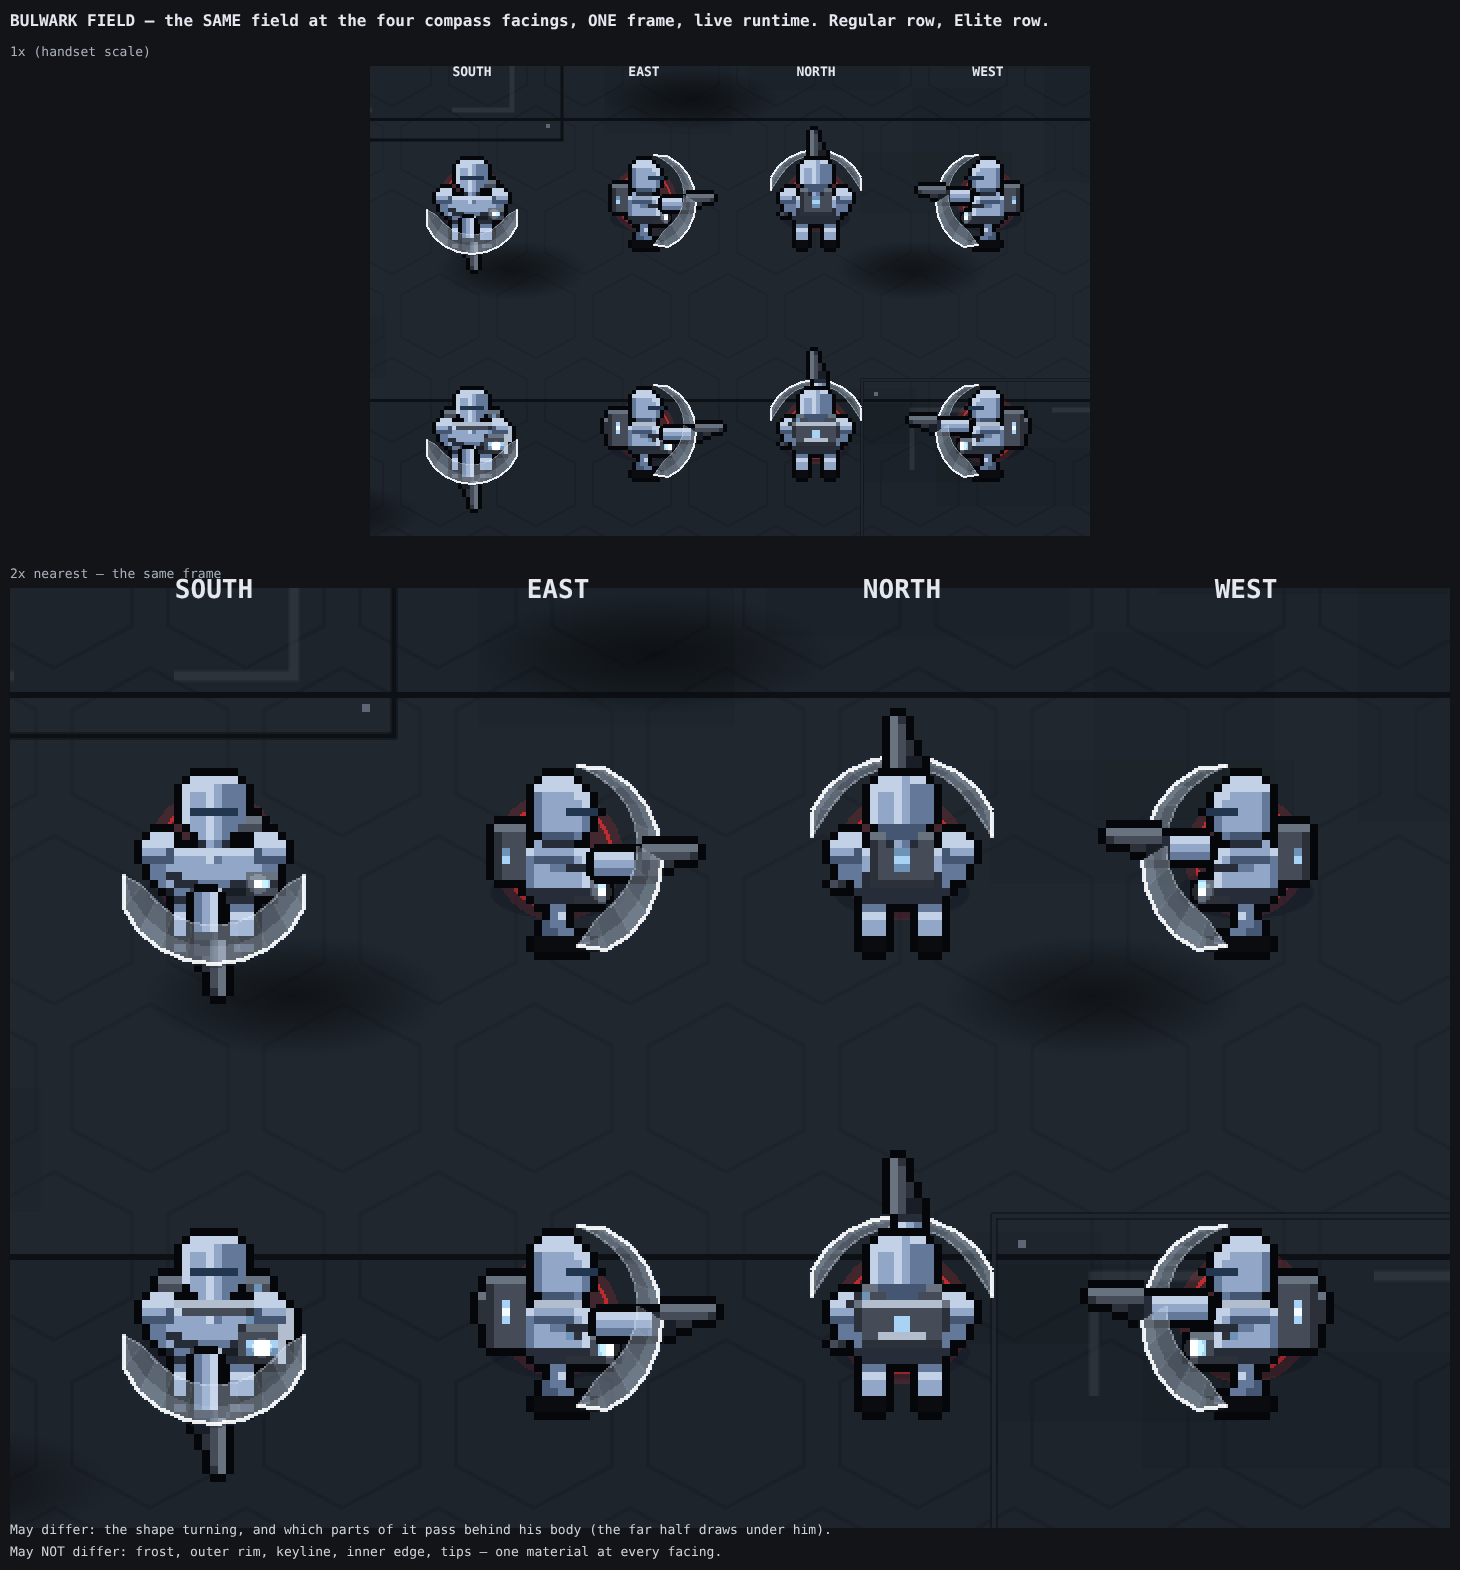
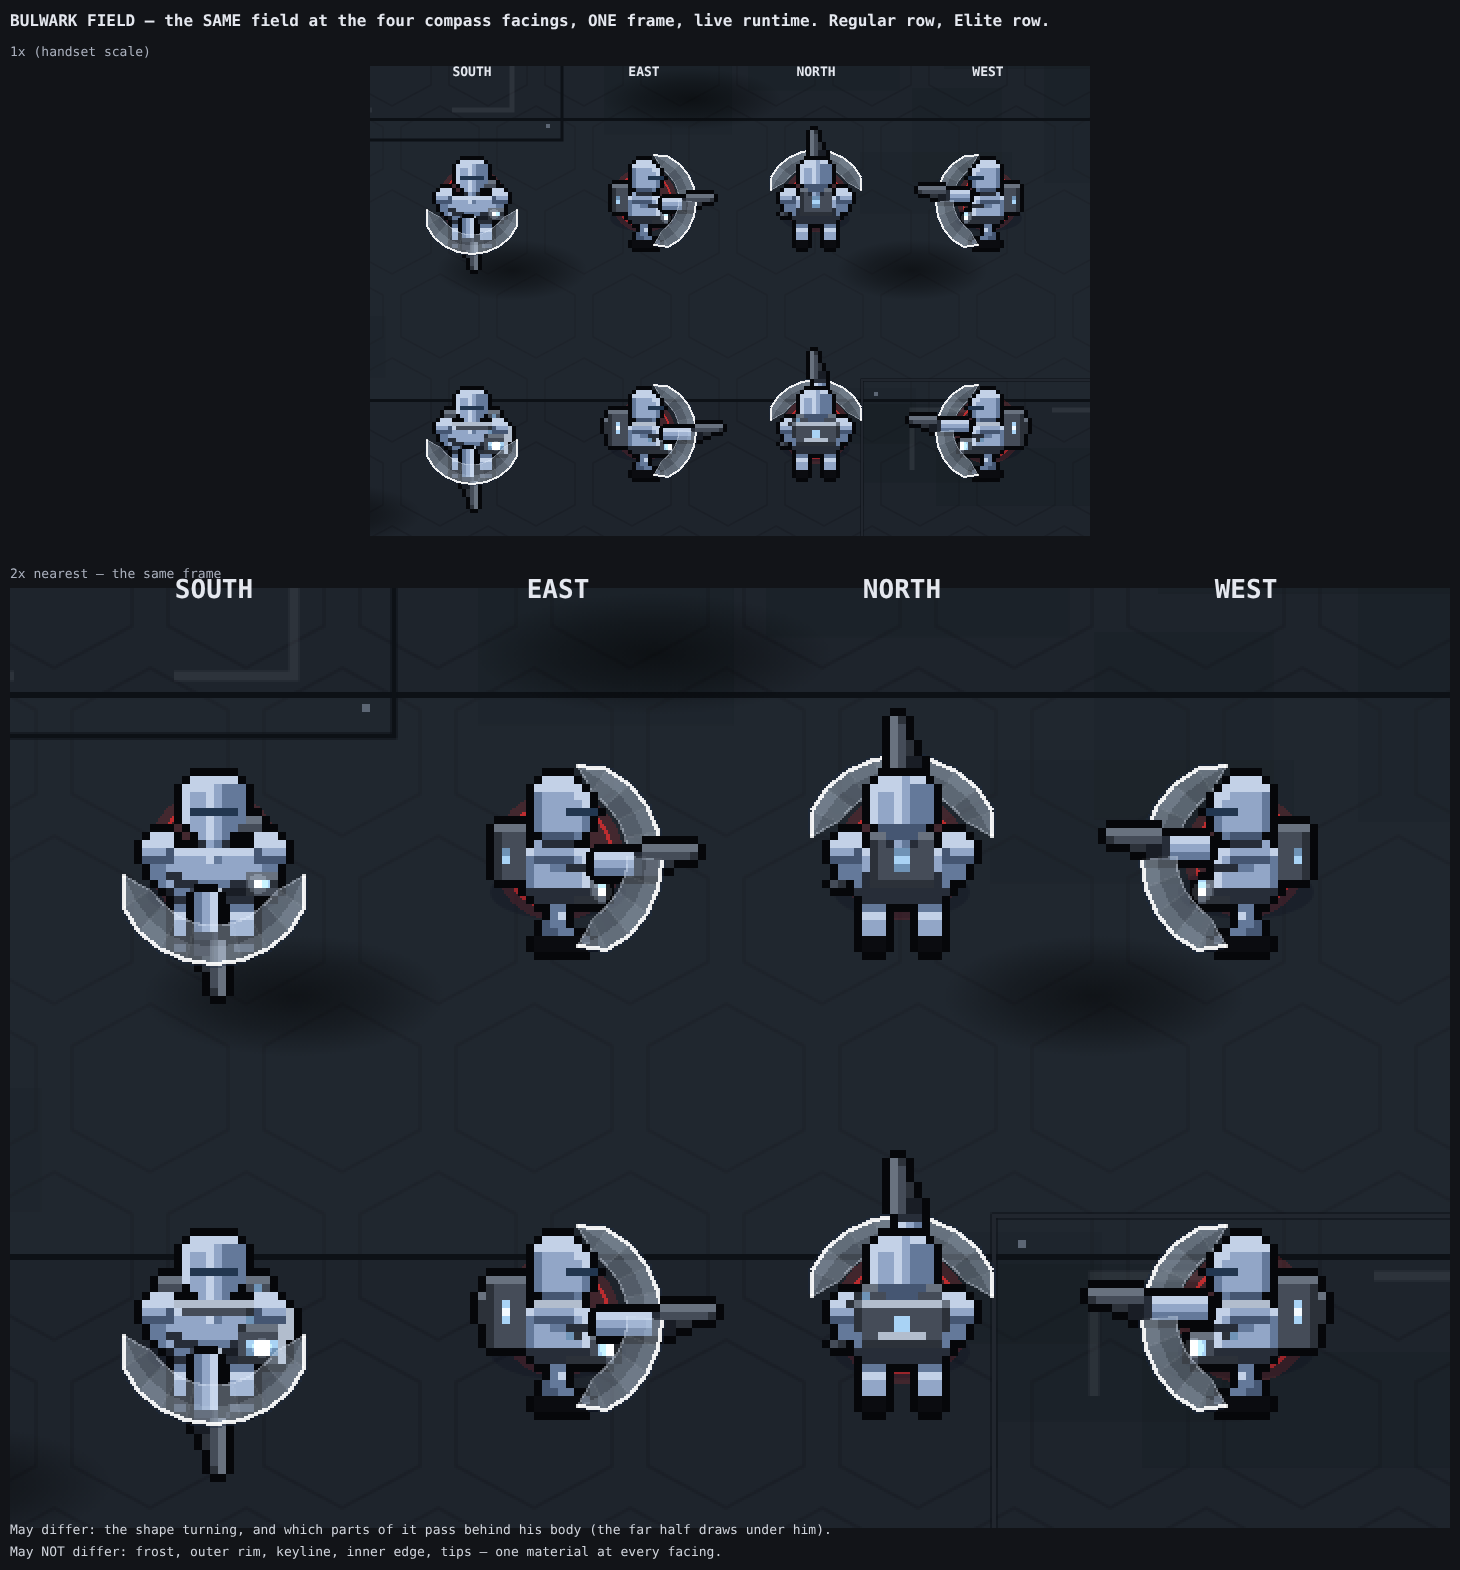
wip(roster): Bulwark orientation — before/after field cost in the notes; idle legend no longer claims a softer far half
Claude-Session: https://claude.ai/code/session_01H3DRRU6hP83RwXnBDPTtdN

diff --git a/docs/evidence/roster-bulwark/bulwark-v1-notes.md b/docs/evidence/roster-bulwark/bulwark-v1-notes.md
@@ -343,6 +343,21 @@ The field redraws every frame, so its CPU cost was measured on this container
 A phone is slower. This is the number to watch if VANGUARD frame time is ever a
 complaint.
 
+**Orientation pass, before / after** (`node tests/shot-bulwark-orient.mjs perf`;
+one instrument for both builds: six fields at six facings, median of 5 × 240 frames,
+the old build served from a `d9e2d6d` worktree; two runs):
+
+| ms per field per frame | OLD `d9e2d6d` | NEW |
+|---|---|---|
+| idle | 0.064 / 0.061 | 0.058 / 0.065 |
+| every field hit every 3 frames | 0.375 / 0.356 | 0.347 / 0.364 |
+
+No measurable difference. The far half now draws its keyline (ten more lines), which
+is in the noise; nothing is drawn twice. The absolute "under fire" figure is higher
+than the 0.26 above because this instrument hits all six fields every third frame at
+spread offsets, so more five-sample panels are live; compare across the two columns,
+not with the older figure.
+
 ## Gameplay invariance (smoke-bulwark, 70 checks)
 
 - **Units:** hp, radius, body width and centring, speed, half-arc 1.35, turn 2.6,
